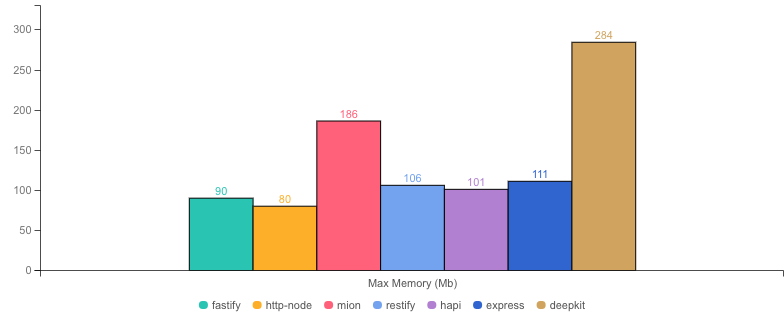
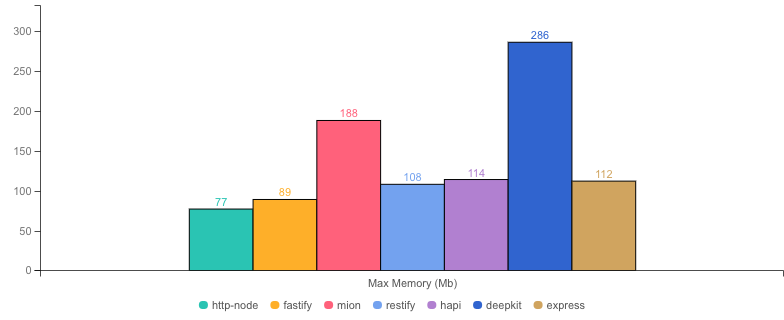
improve memory profiling and deepkit test

diff --git a/_compiled-apps/apps/src/deepkitApp.js b/_compiled-apps/apps/src/deepkitApp.js
@@ -1,6 +1,7 @@
 "use strict";
 Object.defineProperty(exports, "__esModule", { value: true });
-exports.initDeepkitApp = exports.setRoutes = exports.deepKitSayHelloRoute = void 0;
+exports.initDeepkitApp = exports.setRoutes = exports.deepKitSayHelloRoute = exports.MyTransport = void 0;
+const { __ΩLogMessage } = require("@deepkit/logger");
 const { __ΩHttpBody } = require("@deepkit/http");
 const { __ΩUser } = require("./models");
 const { __ΩSayHello } = require("./models");
@@ -12,9 +13,19 @@ const http_1 = require("http");
 const app_1 = require("@deepkit/app");
 const framework_1 = require("@deepkit/framework");
 const http_2 = require("@deepkit/http");
+const logger_1 = require("@deepkit/logger");
 const __ΩmionUpdate = [() => __ΩUser, '/updateUser', 'Pn!4"M'];
 const __ΩmionSayHelloResponse = [() => __ΩSayHello, '/', 'Pn!4"M'];
 let app;
+class MyTransport {
+    write(message) {
+    }
+    supportsColor() {
+        return false;
+    }
+}
+exports.MyTransport = MyTransport;
+MyTransport.__type = [() => __ΩLogMessage, 'message', 'write', 'supportsColor', 'Pn!2""0#P"0$5'];
 exports.deepKitSayHelloRoute = __assignType(() => {
     return { "/": { hello: "world" } };
 }, [() => __ΩmionSayHelloResponse, '', 'Pn!/"']);
@@ -32,7 +43,11 @@ exports.setRoutes = setRoutes;
 const initDeepkitApp = () => {
     app = new app_1.App({
         imports: [new framework_1.FrameworkModule()],
-    });
+    }).setup(__assignType((module, config) => {
+        module
+            .setupGlobalProvider(undefined, logger_1.Logger)
+            .setTransport([new MyTransport()]);
+    }, ['module', 'config', '', 'P"2!"2""/#']));
     const httpKernel = app.get(http_2.HttpKernel);
     const router = app.get(http_2.HttpRouterRegistry);
     const server = new http_1.Server({ IncomingMessage: http_2.HttpRequest, ServerResponse: http_2.HttpResponse }, __assignType((req, res) => {

diff --git a/apps/src/deepkitApp.ts b/apps/src/deepkitApp.ts
@@ -15,6 +15,12 @@ import {
   HttpResponse,
   HttpKernel,
 } from "@deepkit/http";
+import {
+  Logger,
+  LogMessage,
+  LoggerTransport,
+  LoggerLevel,
+} from "@deepkit/logger";
 import { SayHello, User } from "./models";
 
 type mionUpdate = {
@@ -26,6 +32,17 @@ type mionSayHelloResponse = {
 };
 
 let app: App<any>;
+
+// LoggerTransport to disable console output
+export class MyTransport implements LoggerTransport {
+  write(message: LogMessage) {
+    // does nothing to disable console output
+  }
+
+  supportsColor() {
+    return false;
+  }
+}
 
 export const deepKitSayHelloRoute = (): mionSayHelloResponse => {
   return { "/": { hello: "world" } };
@@ -50,9 +67,14 @@ export const setRoutes = () => {
 export const initDeepkitApp = () => {
   app = new App({
     imports: [new FrameworkModule()],
+  }).setup((module, config) => {
+    module
+      .setupGlobalProvider(undefined, Logger)
+      .setTransport([new MyTransport()]);
   });
 
   const httpKernel = app.get(HttpKernel);
+  // console.log("httpKernel", httpKernel);
   const router = app.get(HttpRouterRegistry);
 
   const server = new Server(

diff --git a/lib/autocannon.js b/lib/autocannon.js
@@ -32,7 +32,7 @@ const run = (opts = {}, handler) =>
     const memCheck = setInterval(() => {
       pidusage(opts.forkedPid, (err, stats) => {
         if (err) {
-          console.log(err);
+          return;
         } else {
           if (stats.memory > maxMem) {
             maxMem = stats.memory;
@@ -42,18 +42,17 @@ const run = (opts = {}, handler) =>
           }
         }
       });
-    }, 500);
+    }, 1000);
     autocannon(opts, (err, result) => {
       clearInterval(memCheck);
       if (err) {
         reject(err);
       } else {
-        const r = {
+        resolve({
           ...result,
           maxMem,
           maxCpu,
-        };
-        resolve(r);
+        });
       }
     });
   });

diff --git a/_compiled-apps/apps/src/deepkitApp.d.ts b/_compiled-apps/apps/src/deepkitApp.d.ts
@@ -2,10 +2,15 @@
 import { Server } from "http";
 import { App } from "@deepkit/app";
 import { HttpRouterRegistry, HttpRequest } from "@deepkit/http";
+import { LogMessage, LoggerTransport } from "@deepkit/logger";
 import { SayHello } from "./models";
 type mionSayHelloResponse = {
     "/": SayHello;
 };
+export declare class MyTransport implements LoggerTransport {
+    write(message: LogMessage): void;
+    supportsColor(): boolean;
+}
 export declare const deepKitSayHelloRoute: () => mionSayHelloResponse;
 export declare const setRoutes: () => void;
 export declare const initDeepkitApp: () => {

diff --git a/README.md b/README.md
@@ -84,7 +84,7 @@ app.post("/updateUser", function (req, res) {
 
 * __Machine:__ darwin x64 | 8 vCPUs | 16.0GB Mem
 * __Node:__ `v16.18.0`
-* __Run:__ Sat Jul 08 2023 20:44:57 GMT+0100 (Irish Standard Time)
+* __Run:__ Sun Jul 09 2023 01:09:31 GMT+0100 (Irish Standard Time)
 * __Method:__ `autocannon -c 100 -d 40 -p 10 localhost:3000` (two rounds; one to warm-up, one to measure)
 
 #### Req (R/s) 
@@ -119,10 +119,10 @@ app.post("/updateUser", function (req, res) {
 
 |           | Version        | Router | Req (R/s)   | Latency (ms) | Output (Mb/s) | Max Memory (Mb) | Max Cpu (%) | Validation | Description                                                                                                |
 | :--       | --:            | --:    | :-:         | --:          | --:           | --:             | --:         | :-:        | :--                                                                                                        |
-| fastify   | 4.19.2         | ✓      | 16191.4     | 61.24        | 4.17          | 90              | 68          | -          | Validation is done using schemas and ajv. Schemas must be generated manually or using third party tools.   |
-| http-node | 16.18.0        | ✗      | 15897.5     | 62.41        | 4.08          | 80              | 69          | ✗          | Super basic and completely useless bare http server, should be the theoretical upper limit in performance. |
-| **mion**  | **0.1.0**      | **✓**  | **13535.6** | **73.37**    | **3.76**      | **186**         | **75**      | **✓**      | **Automatic validation out of the box using @deepkit/types.**                                              |
-| restify   | 8.6.1          | ✓      | 10962.0     | 90.99        | 2.83          | 106             | 53          | ✗          | Requires third party tools.                                                                                |
-| hapi      | 20.3.0         | ✓      | 7966.4      | 124.90       | 2.04          | 101             | 72          | ✗          | Manual validation using joi, or third party tools.                                                         |
-| express   | 4.18.2         | ✓      | 4648.2      | 214.14       | 1.19          | 111             | 65          | ✗          | needs third party tools, or third party tools                                                              |
-| deepkit   | 1.0.1-alpha.75 | ✓      | 2436.4      | 410.82       | 0.62          | 284             | 64          | ✓          | Automatic validation out of the box (The ones that made @deepkit/types), Their rpc is way more performant. |
+| http-node | 16.18.0        | ✗      | 17992.5     | 55.10        | 4.62          | 77              | 120         | ✗          | Super basic and completely useless bare http server, should be the theoretical upper limit in performance. |
+| fastify   | 4.19.2         | ✓      | 17514.1     | 56.59        | 4.51          | 89              | 124         | -          | Validation is done using schemas and ajv. Schemas must be generated manually or using third party tools.   |
+| **mion**  | **0.1.0**      | **✓**  | **14845.6** | **66.89**    | **4.12**      | **188**         | **135**     | **✓**      | **Automatic validation out of the box using @deepkit/types.**                                              |
+| restify   | 8.6.1          | ✓      | 11060.0     | 89.85        | 2.86          | 108             | 117         | ✗          | Requires third party tools.                                                                                |
+| hapi      | 20.3.0         | ✓      | 7741.8      | 128.53       | 1.99          | 114             | 128         | ✗          | Manual validation using joi, or third party tools.                                                         |
+| deepkit   | 1.0.1-alpha.75 | ✓      | 5185.0      | 192.09       | 1.33          | 286             | 130         | ✓          | Automatic validation out of the box (The ones that made @deepkit/types), Their rpc is way more performant. |
+| express   | 4.18.2         | ✓      | 4558.4      | 218.46       | 1.17          | 112             | 127         | ✗          | needs third party tools, or third party tools                                                              |
